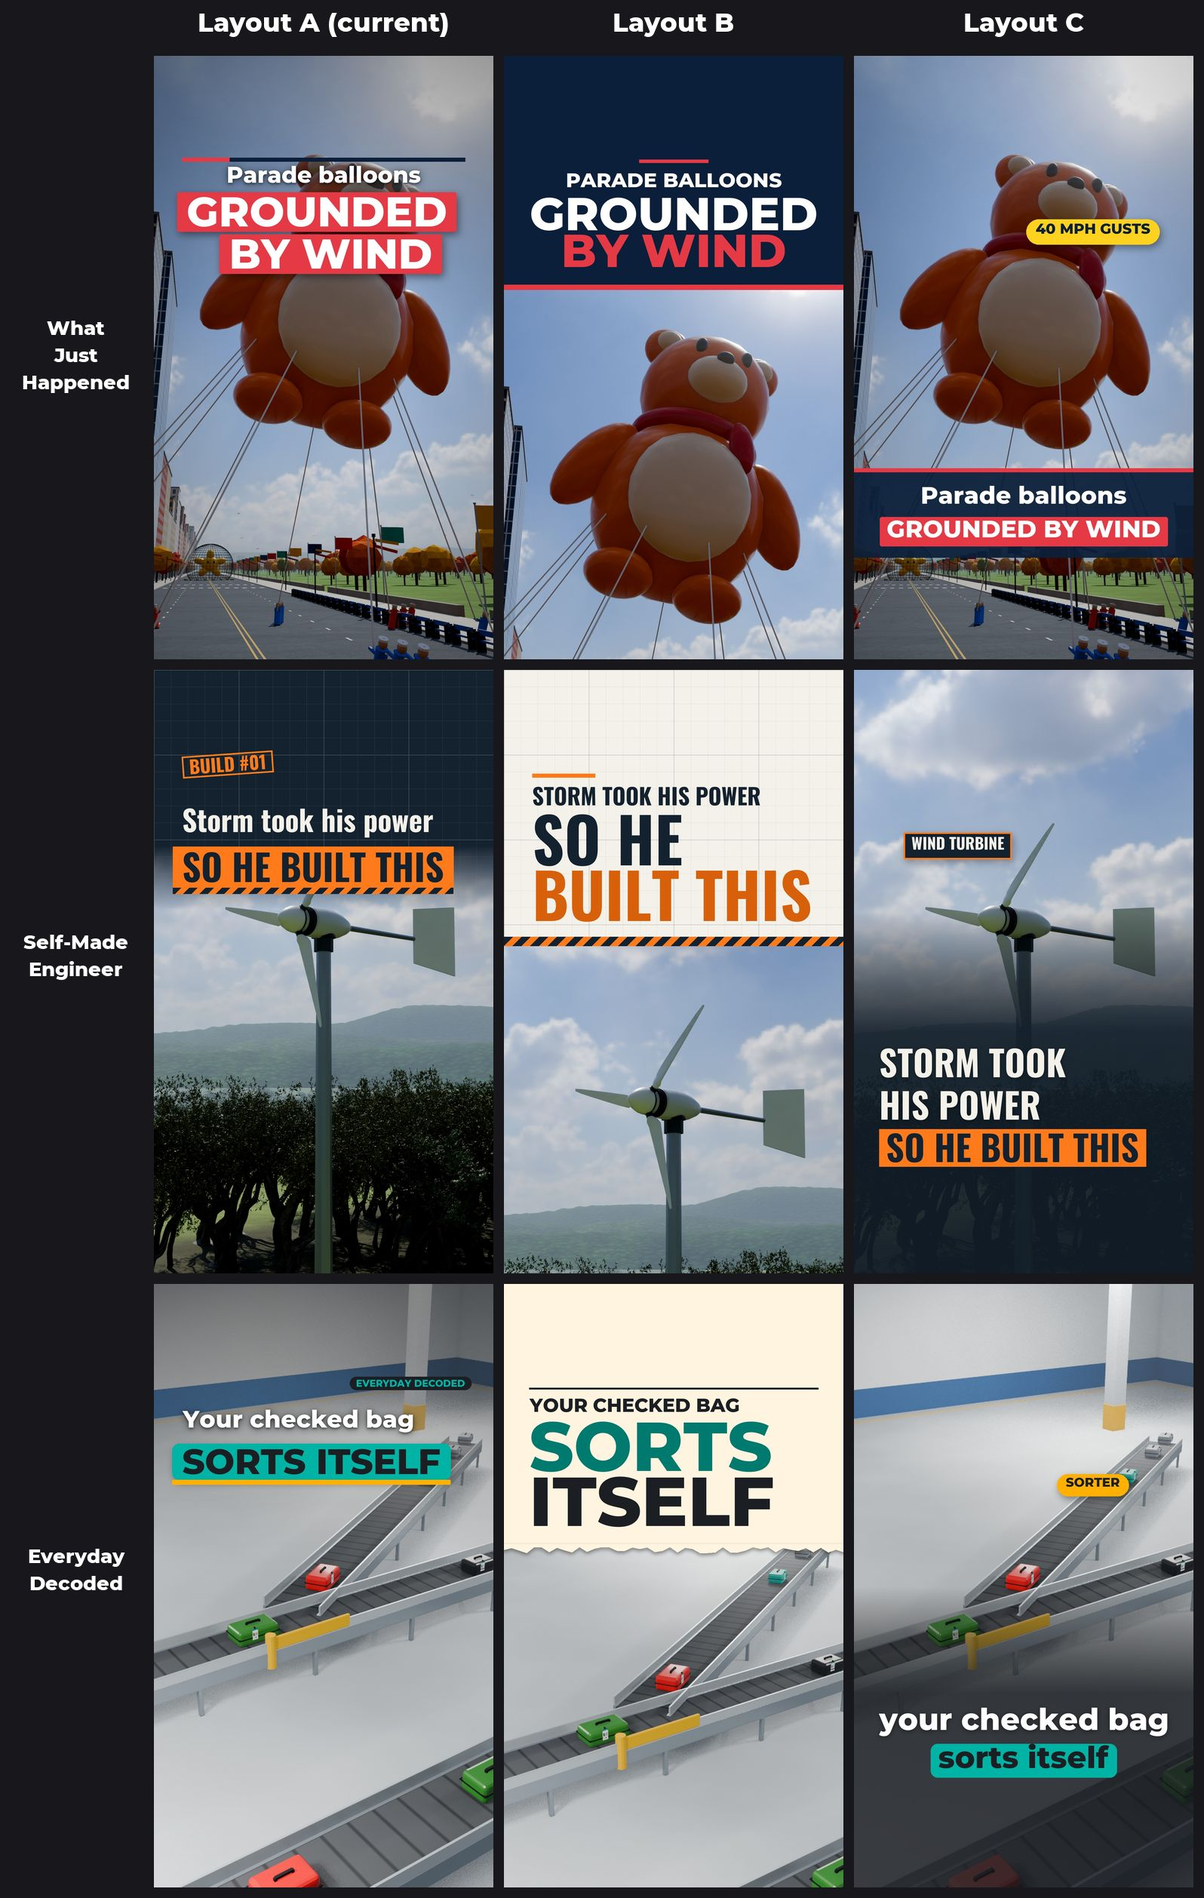
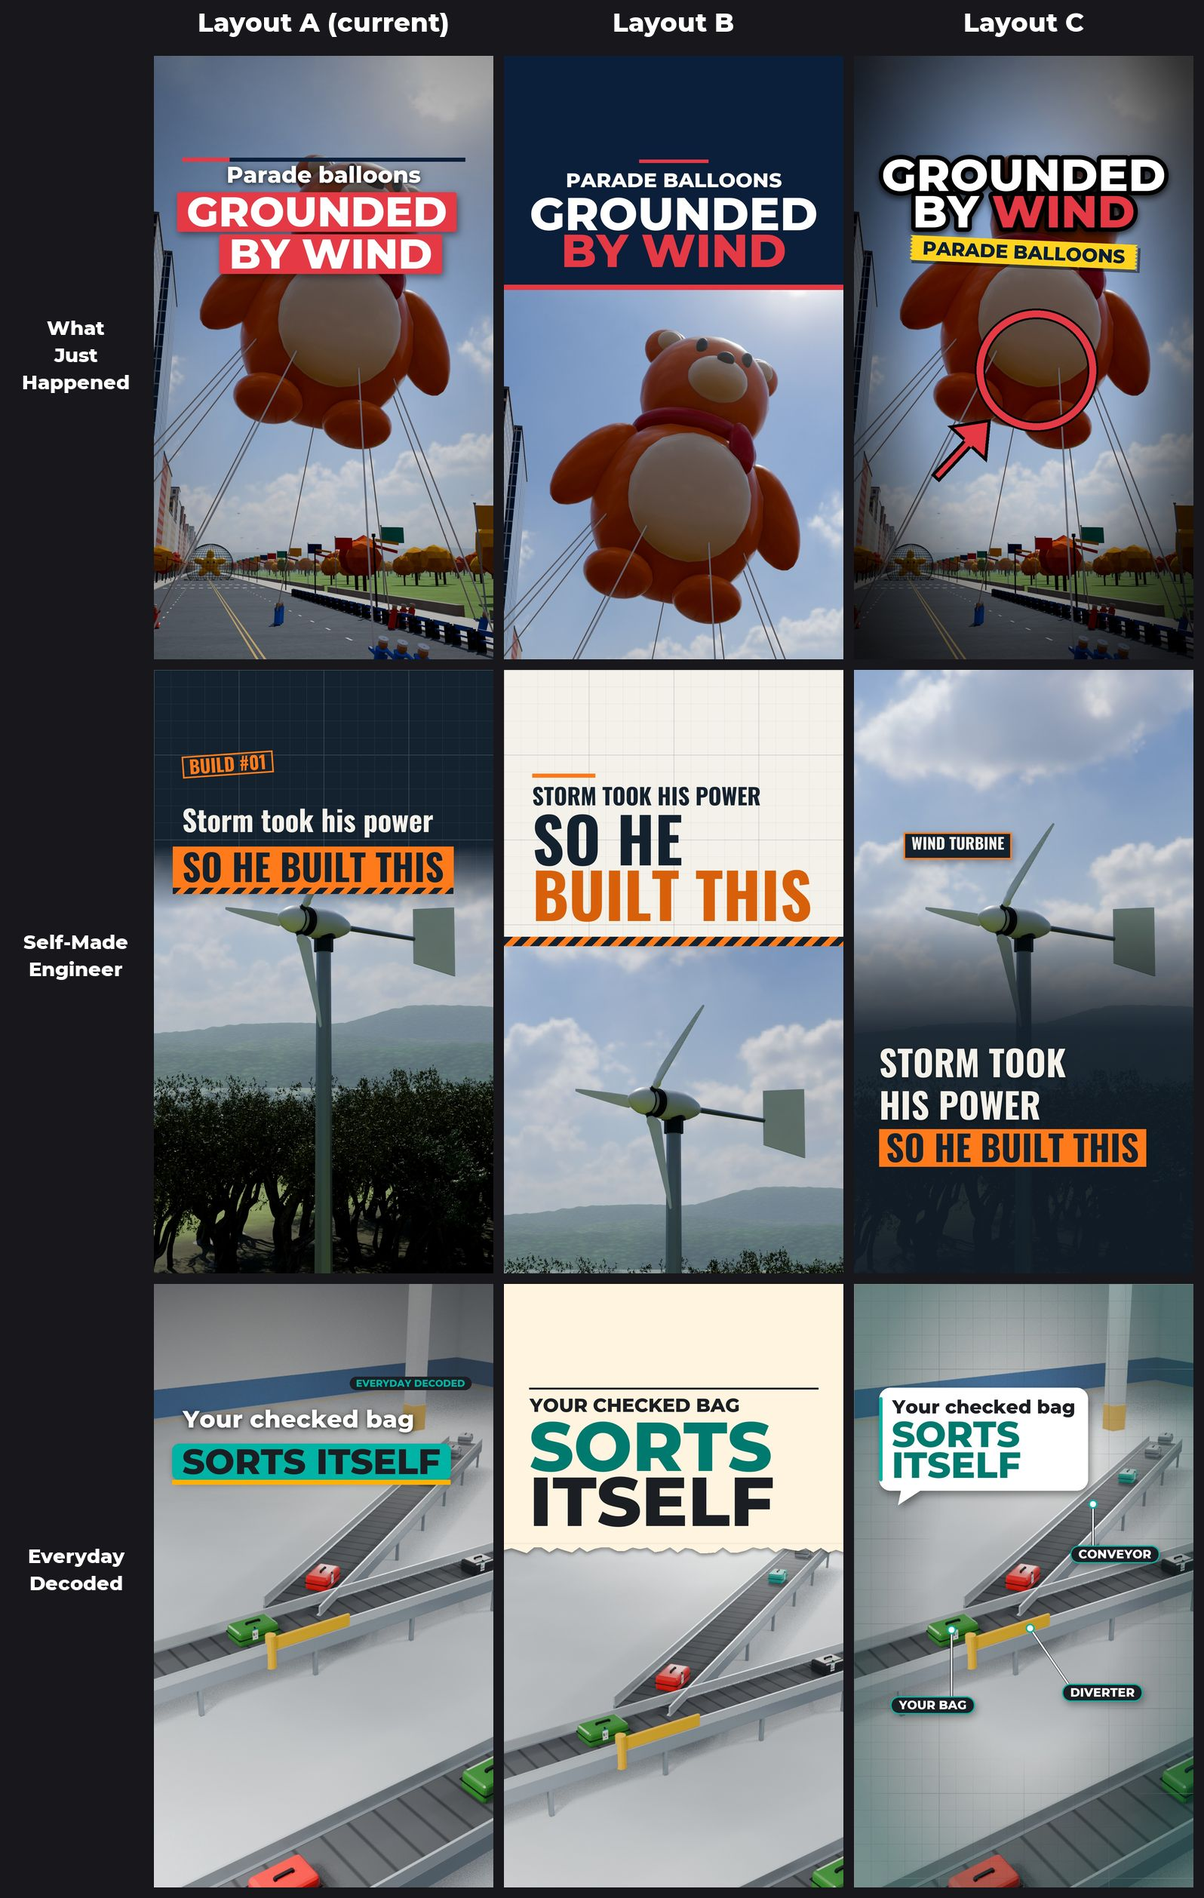
Thumbnails: new layout C for WJH (news punch) and ED (labelled diagram)
WJH C: giant stroked headline, red key word (--key), yellow tape setup, red circle + arrow, darkened edges.
ED C: speech-bubble hook card, blueprint-grid edge tint, --callout lines to small labels.
SME C and all layout A output unchanged (verified byte-identical).

Changed region(s): [[0.7061, 0.651, 1.0, 1.0], [0.7061, 0.031, 1.0, 0.372]]

diff --git a/tools/make_thumbnail.py b/tools/make_thumbnail.py
@@ -25,9 +25,13 @@ Layouts (preset key "layout"; rotate A->B->C per Page, never the same layout twi
   A (default)  full-bleed hero + two-tier hook on top (setup line + payoff box). Absent key = A, byte-identical.
   B "poster"   flat paper header, thin rule, small kicker (--setup), HUGE stacked payoff words in alternating
                colours, hero frame in a window below (edge: line | hazard | torn). --micro under the words.
-  C "caption"  full-bleed hero, the hook as ONE caption near the bottom of the safe zone (setup plain, payoff on a
-               single highlight box, never split), over a gradient or solid lower-third band; --micro above it;
-               pair with --sticker as a small label on the object.
+  C            caption.variant picks the concept:
+               "caption" (default, sme_c) the hook as ONE caption near the bottom of the safe zone (setup plain, payoff
+                 on a single highlight box, never split) over a gradient / solid band; --micro above; --sticker label.
+               "punch" (wjh_c) giant stroked headline (= --payoff), key word (--key, default last) in the accent colour,
+                 setup on a tilted yellow tape strip, edge-darkened hero; pair with --circle / --arrow.
+               "diagram" (ed_c) speech-bubble hook card top-left, blueprint-grid tint on the image edges, and
+                 --callout "x,y:LABEL[@lx,ly]" (repeatable) lines with dots to small rounded labels.
   --sticker / --badge / --arrow / --circle work the same in every layout.
 
 Preset JSON schema (tools/thumb_styles/<name>.json; every key optional, defaults below in DEFAULT).
@@ -39,7 +43,12 @@ Every key marked (opt-in) is off by default, so presets that don't use it render
                          colours, cycled], "gap" (30), "micro_size", "micro_color", "window_gap" (44), "window_max_top"
                          (1200), "edge" {"type": line|hazard|torn, "color", "height", "colors", "stripe", "depth", "step"}}
                          Payoff lines: "|" splits, else 1 word per line (short words join the next), pairs for 4+.
-  caption               (layout C) {"font" (= payoff font), "size" (104, auto-shrinks), "max_lines" (3), "setup_case",
+  caption               (layout C) {"variant": caption|punch|diagram; punch keys: "size", "stroke", "leading",
+                         "color", "key_color", "stroke_color", "edge_dark", "tape" {size, case, color, text, pad,
+                         rotate}, "tape_gap"; diagram keys: "grid" {tint, tint_alpha, color, alpha, major_alpha, step,
+                         major_every, inner, outer}, "card" {pad, max_width, radius, box, accent, setup_size/case/color,
+                         payoff_size/case/color, gap, tail}, "callout" {size, line, line_shadow, width, dot_r, dot_ring,
+                         box, text, border, border_w, pad, shadow}; caption keys: "font" (= payoff font), "size" (104, auto-shrinks), "max_lines" (3), "setup_case",
                          "payoff_case" (asis|upper|lower|sentence), "color", "shadow", "box", "box_text", "radius",
                          "pad" [y, x], "box_gap", "line_gap", "y_bottom" (1590; --text-top sets the top instead),
                          "micro_size", "micro_color", "micro_gap",
@@ -440,6 +449,11 @@ def layout_c(a, st, font_path, pfont_path):
     (setup words plain, payoff words on a single highlight box), over a dark gradient or a solid lower-third band.
     Pair with --sticker (+ --sticker-label) as a small rounded label on the object."""
     c = st.get("caption", {})
+    variant = c.get("variant", "caption")
+    if variant == "punch":
+        return layout_punch(a, st, font_path, pfont_path)
+    if variant == "diagram":
+        return layout_diagram(a, st, font_path, pfont_path)
     mx = st["margin_x"]
     col_w = W - 2 * mx
     center = st.get("align", "center") == "center"
@@ -545,6 +559,192 @@ def layout_c(a, st, font_path, pfont_path):
         cap_box_text(img, P, (W - w) / 2 if center else mx, my, a.micro, mf, c.get("micro_color", "#FFFFFF"))
     return img, P, [" ".join(w for w, _ in ln) for ln in lines]
 
+def edge_mask(strength, inner=0.45, outer=0.95):
+    """L mask: 0 in the centre, rising to `strength` towards the frame edges (elliptical)."""
+    m = Image.new("L", (W // 8, H // 8))
+    px = m.load()
+    for y in range(m.height):
+        for x in range(m.width):
+            d = math.hypot((x - m.width / 2) / (m.width / 2), (y - m.height / 2) / (m.height / 2)) / math.sqrt(2)
+            px[x, y] = int(255 * strength * min(1.0, max(0.0, (d - inner) / (outer - inner))))
+    return m.resize((W, H), Image.BICUBIC).filter(ImageFilter.GaussianBlur(16))
+
+
+def layout_punch(a, st, font_path, pfont_path):
+    """Layout C, variant 'punch' (news): darkened-edge hero, ONE giant white headline (= --payoff) with a heavy black
+    stroke in the upper third, one key word (--key, default last word) in the accent colour, the setup on a slightly
+    rotated yellow tape strip under it; use --circle / --arrow to point at the key object."""
+    c = st["caption"]
+    mx = st["margin_x"]
+    col_w = W - 2 * mx
+    img = hero_plate(a.hero, a.zoom, [float(v) for v in a.focus.split(",")], st["grade"], 0).convert("RGBA")
+    if c.get("edge_dark"):
+        img.alpha_composite(Image.composite(Image.new("RGBA", (W, H), (0, 0, 0, 255)),
+                                            Image.new("RGBA", (W, H), (0, 0, 0, 0)), edge_mask(c["edge_dark"])))
+    P = Painter(img)
+    words = a.payoff.replace("|", " ").upper().split()
+    key = (a.key or words[-1]).upper()
+    plines = stack_lines(a.payoff.upper())
+    sw_ = c.get("stroke", 14)
+    size = c.get("size", 210)
+    while True:
+        f = ImageFont.truetype(pfont_path, size)
+        if max(f.getlength(ln) for ln in plines) + 2 * sw_ <= col_w or size <= 80:
+            break
+        size -= 6
+    cap = ink_size(f, "H")[1]
+    y = a.text_top if a.text_top is not None else st["text_top"]
+    lead = int(cap * c.get("leading", 0.18))
+    for ln in plines:
+        lw = f.getlength(ln)
+        x = (W - lw) / 2
+        sh = Image.new("RGBA", (W, H), (0, 0, 0, 0))
+        hb = f.getbbox("H")
+        ImageDraw.Draw(sh).text((x, y - hb[1] + 10), ln, font=f, fill=(0, 0, 0, 170), stroke_width=sw_,
+                                stroke_fill=(0, 0, 0, 170))
+        img.alpha_composite(sh.filter(ImageFilter.GaussianBlur(10)))
+        d = ImageDraw.Draw(img)
+        for i, wd in enumerate(ln.split()):
+            col = c.get("key_color", "#E63946") if wd.strip("?!.,") == key.strip("?!.,") else c.get("color", "#FFFFFF")
+            d.text((x, y - hb[1]), wd, font=f, fill=rgb(col) + (255,), stroke_width=sw_,
+                   stroke_fill=rgb(c.get("stroke_color", "#000000")) + (255,))
+            x += f.getlength(wd + " ")
+        P.boxes.append(((W - lw) / 2 - sw_, y - sw_, (W + lw) / 2 + sw_, y + cap + sw_))
+        y += cap + lead
+    # tape strip with the setup
+    t = c.get("tape", {})
+    tf = ImageFont.truetype(font_path, t.get("size", 60))
+    ttxt = case(a.setup, t.get("case", "upper"))
+    while ink_size(tf, ttxt)[0] + 2 * t.get("pad", [18, 40])[1] > col_w and tf.size > 36:
+        tf = ImageFont.truetype(font_path, tf.size - 2)
+    tw, _ = ink_size(tf, ttxt)
+    tcap = ink_size(tf, "H")[1]
+    py_, px_ = t.get("pad", [18, 40])
+    ty = y - lead + c.get("tape_gap", 34)
+    layer = Image.new("RGBA", (W, H), (0, 0, 0, 0))
+    box = ((W - tw) / 2 - px_, ty, (W + tw) / 2 + px_, ty + tcap + 2 * py_)
+    ld = ImageDraw.Draw(layer)
+    ld.rectangle((box[0] + 8, box[1] + 10, box[2] + 8, box[3] + 10), fill=(0, 0, 0, 120))
+    ld.rectangle(box, fill=rgb(t.get("color", "#FFD21F")) + (255,))
+    for xx in (box[0], box[2]):   # ragged tape ends
+        for k in range(int(box[1]), int(box[3]), 12):
+            ld.polygon([(xx, k), (xx + (8 if xx == box[0] else -8), k + 6), (xx, k + 12)], fill=(0, 0, 0, 0))
+    cap_box_text(layer, Painter(layer), (W - tw) / 2, ty + py_, ttxt, tf, t.get("text", "#0B1F3A"), key=False)
+    layer = layer.rotate(t.get("rotate", -2.5), resample=Image.BICUBIC,
+                         center=((box[0] + box[2]) / 2, (box[1] + box[3]) / 2))
+    img.alpha_composite(layer)
+    P.boxes.append(layer.getchannel("A").point(lambda v: 255 if v > 200 else 0).getbbox())
+    if a.micro:
+        mf = ImageFont.truetype(font_path, c.get("micro_size", 44))
+        w, _ = ink_size(mf, a.micro)
+        my = P.boxes[-1][3] + c.get("micro_gap", 26)
+        bb = mf.getbbox(a.micro)
+        ImageDraw.Draw(img).text(((W - w) / 2 - bb[0], my - mf.getbbox("H")[1]), a.micro, font=mf,
+                                 fill=rgb(c.get("micro_color", "#FFFFFF")) + (255,), stroke_width=5,
+                                 stroke_fill=(0, 0, 0, 255))
+        P.boxes.append(((W - w) / 2, my, (W + w) / 2, my + ink_size(mf, "H")[1]))
+    return img, P, plines
+
+
+def layout_diagram(a, st, font_path, pfont_path):
+    """Layout C, variant 'diagram' (how it works): hero with a blueprint-grid tint on its edges, the hook in a white
+    rounded speech-bubble card at the top-left (setup charcoal, payoff accent), and thin white callout lines with
+    dots from 2-3 parts of the object to small rounded labels (--callout 'x,y:LABEL[@lx,ly]', repeatable)."""
+    c = st["caption"]
+    mx = st["margin_x"]
+    img = hero_plate(a.hero, a.zoom, [float(v) for v in a.focus.split(",")], st["grade"], 0).convert("RGBA")
+    g = c.get("grid", {})
+    em = edge_mask(1.0, g.get("inner", 0.40), g.get("outer", 0.85))
+    tint = Image.new("RGBA", (W, H), rgb(g.get("tint", "#00796E")) + (255,))
+    img.alpha_composite(Image.composite(tint, Image.new("RGBA", (W, H), (0, 0, 0, 0)),
+                                        em.point(lambda v: int(v * g.get("tint_alpha", 0.35)))))
+    lines = Image.new("L", (W, H), 0)
+    ld = ImageDraw.Draw(lines)
+    step, every = g.get("step", 54), g.get("major_every", 5)
+    for i, v in enumerate(range(0, H, step)):
+        al = int(255 * (g.get("major_alpha", 0.45) if every and i % every == 0 else g.get("alpha", 0.25)))
+        ld.line((0, v, W, v), fill=al, width=2 if i % every == 0 else 1)
+        if v < W:
+            ld.line((v, 0, v, H), fill=al, width=2 if i % every == 0 else 1)
+    img.alpha_composite(Image.composite(Image.new("RGBA", (W, H), rgb(g.get("color", "#FFFFFF")) + (255,)),
+                                        Image.new("RGBA", (W, H), (0, 0, 0, 0)), ImageChops.multiply(lines, em)))
+    P = Painter(img)
+    # hook card
+    k = c.get("card", {})
+    pad = k.get("pad", 40)
+    maxw = k.get("max_width", 760) - 2 * pad
+    sf = ImageFont.truetype(font_path, k.get("setup_size", 60))
+    stxt = case(a.setup, k.get("setup_case", "asis"))
+    slines = balanced(sf, stxt.split(), maxw)
+    ptxt = case(a.payoff.replace("|", " "), k.get("payoff_case", "upper"))
+    psize = k.get("payoff_size", 120)
+    while True:
+        pf = ImageFont.truetype(pfont_path, psize)
+        plines = [ln.strip() for ln in a.payoff.upper().split("|")] if "|" in a.payoff else \
+            wrap(pf, ptxt.split(), maxw)
+        if max(ink_size(pf, ln)[0] for ln in plines) <= maxw or psize <= 64:
+            break
+        psize -= 4
+    scap, pcap = ink_size(sf, "H")[1], ink_size(pf, "H")[1]
+    sgap, pgap, mid = int(scap * 0.45), int(pcap * 0.22), k.get("gap", 26)
+    inner_h = len(slines) * scap + (len(slines) - 1) * sgap + mid + len(plines) * pcap + (len(plines) - 1) * pgap
+    inner_w = max([ink_size(sf, ln)[0] for ln in slines] + [ink_size(pf, ln)[0] for ln in plines])
+    x0 = mx
+    y0 = a.text_top if a.text_top is not None else st["text_top"]
+    card = (x0, y0, x0 + inner_w + 2 * pad, y0 + inner_h + 2 * pad)
+    tail = k.get("tail", 46)
+    tail_pts = [(card[0] + 70, card[3] - 2), (card[0] + 70 + tail * 1.4, card[3] - 2), (card[0] + 60, card[3] + tail)]
+    sh = Image.new("RGBA", (W, H), (0, 0, 0, 0))
+    sd = ImageDraw.Draw(sh)
+    sd.rounded_rectangle([v + o for v, o in zip(card, (6, 12, 6, 12))], k.get("radius", 36), fill=(0, 0, 0, 110))
+    sd.polygon([(x + 6, y + 12) for x, y in tail_pts], fill=(0, 0, 0, 110))
+    img.alpha_composite(sh.filter(ImageFilter.GaussianBlur(12)))
+    d = ImageDraw.Draw(img)
+    d.rounded_rectangle(card, k.get("radius", 36), fill=rgb(k.get("box", "#FFFFFF")) + (255,))
+    d.polygon(tail_pts, fill=rgb(k.get("box", "#FFFFFF")) + (255,))
+    if k.get("accent"):
+        d.rounded_rectangle((card[0], card[1] + 30, card[0] + 10, card[3] - 30), 5, fill=rgb(k["accent"]) + (255,))
+    y = y0 + pad
+    for ln in slines:
+        cap_box_text(img, P, x0 + pad, y, ln, sf, k.get("setup_color", "#1B1F24"), key=False)
+        y += scap + sgap
+    y += mid - sgap
+    for ln in plines:
+        cap_box_text(img, P, x0 + pad, y, ln, pf, k.get("payoff_color", "#00796E"), key=False)
+        y += pcap + pgap
+    P.boxes.append((card[0], card[1], card[2], card[3] + tail))
+    # callouts
+    q = c.get("callout", {})
+    lf = ImageFont.truetype(font_path, q.get("size", 38))
+    lcol, lw_ = rgb(q.get("line", "#FFFFFF")), q.get("width", 4)
+    for spec in a.callout:
+        pt, _, rest = spec.partition(":")
+        label, _, at = rest.partition("@")
+        x, yy = [float(v) for v in pt.split(",")]
+        lx, ly = [float(v) for v in at.split(",")] if at else (x + (230 if x < W / 2 else -230), yy + 170)
+        tw, _ = ink_size(lf, label)
+        lcap = ink_size(lf, "H")[1]
+        bpy, bpx = q.get("pad", [14, 26])
+        box = (lx - tw / 2 - bpx, ly - lcap / 2 - bpy, lx + tw / 2 + bpx, ly + lcap / 2 + bpy)
+        ex = min(max(x, box[0] + 20), box[2] - 20)
+        ey = box[1] if yy < box[1] else box[3] if yy > box[3] else ly
+        if box[0] <= x <= box[2] and box[1] <= yy <= box[3]:
+            ex, ey = lx, ly
+        if q.get("line_shadow"):
+            ImageDraw.Draw(img).line([(x, yy), (ex, ey)], fill=rgb(q["line_shadow"]) + (150,), width=lw_ + 4)
+        d = ImageDraw.Draw(img)
+        d.line([(x, yy), (ex, ey)], fill=lcol + (255,), width=lw_)
+        r = q.get("dot_r", 13)
+        d.ellipse((x - r, yy - r, x + r, yy + r), fill=lcol + (255,), outline=rgb(q.get("dot_ring", "#00B3A4")) + (255,),
+                  width=5)
+        P.shadow_rect(box, 30, q.get("shadow", 0.35))
+        d = ImageDraw.Draw(img)
+        d.rounded_rectangle(box, int((box[3] - box[1]) / 2), fill=rgb(q.get("box", "#1B1F24")) + (255,),
+                            outline=rgb(q["border"]) + (255,) if q.get("border") else None, width=q.get("border_w", 4))
+        cap_box_text(img, P, lx - tw / 2, ly - lcap / 2, label, lf, q.get("text", "#FFFFFF"), key=False)
+        P.boxes += [box, (x - r, yy - r, x + r, yy + r)]
+    return img, P, plines
+
 
 def main():
     ap = argparse.ArgumentParser()
@@ -566,6 +766,9 @@ def main():
     ap.add_argument("--zoom", type=float, default=1.0)
     ap.add_argument("--focus", default="0.5,0.5")
     ap.add_argument("--debug-safe", action="store_true")
+    ap.add_argument("--key", help="layout C punch: the payoff word drawn in the accent colour (default: last word)")
+    ap.add_argument("--callout", action="append", default=[],
+                    help="layout C diagram, repeatable: 'x,y:LABEL' or 'x,y:LABEL@lx,ly' (label centre)")
     a = ap.parse_args()
 
     st = load_style(a.style)

diff --git a/branding/THUMBNAIL-STYLE.md b/branding/THUMBNAIL-STYLE.md
@@ -63,10 +63,18 @@ the same truth / word-count rules. Each Page keeps its own palette and fonts in 
   red bar), `sme_b` (off-white graph paper, Oswald navy/orange words, hazard-stripe edge), `ed_b` (warm cream,
   teal/charcoal words, torn-paper edge). Best with a 1–3 word payoff; the hero window shows only the lower ~40%, so
   aim `--focus` at the hero object.
-- **C, "caption":** full-bleed hero, the hook as ONE caption near the bottom of the safe zone (setup words plain,
-  payoff words on a single highlight box), plus a small rounded label sticker on the object (`--sticker`,
-  `--sticker-at`). Presets `wjh_c` (solid navy news lower-third, red box), `sme_c` (all-caps Oswald over a navy
-  gradient, orange plate, navy/orange tag), `ed_c` (lowercase caption over a charcoal gradient, teal box, amber pill).
+- **C, one concept per Page** (`--style wjh_c|sme_c|ed_c`):
+  - `wjh_c` **"news punch"**: hero darkened at the edges, ONE giant white headline (= `--payoff`, 2–4 words) with a
+    heavy black stroke in the upper third, the key word in red (`--key WORD`, default the last word), the setup on a
+    slightly tilted yellow tape strip under it, and a red circle + arrow on the key object (`--circle x,y,r`,
+    `--arrow x,y,angle`). Irfan's exception (27 Nov 2026): circles/arrows are allowed in WJH layout C only; A and B
+    still use none.
+  - `sme_c` **"caption + tag"**: one all-caps Oswald caption near the bottom (setup off-white, payoff on a square
+    orange plate) over a navy gradient, plus a navy/orange label tag on the build (`--sticker`, `--sticker-at`).
+  - `ed_c` **"labelled diagram"**: teal blueprint-grid tint on the image edges, the hook in a white rounded
+    speech-bubble card at the top-left (setup charcoal, payoff deep teal), and thin white callout lines with dots
+    from 2–3 parts of the object to small charcoal rounded labels (`--callout "x,y:LABEL"` or
+    `--callout "x,y:LABEL@lx,ly"`, repeatable). Labels must name real parts shown in the reel.
 - **Rotation rule:** rotate **A → B → C** per Page, in posting order, and **never use the same layout twice in a row**
   on a Page. Check the Page's previous cover before choosing.
 - Samples (real hero frames): `branding/thumb_variants/` and the contact sheet `branding/thumb_variants/ALL.jpg`.

diff --git a/pipeline/README.md b/pipeline/README.md
@@ -52,7 +52,7 @@ Steps (`--steps`, default `tts,captions,textures,render,assemble,fb,post,qc`):
    - **Thumbnail (Irfan, 25 Nov 2026, all Pages):** every reel ships a custom cover `<name> thumb.jpg` (1080×1920,
      key content inside the centre 1080×1350) made with `tools/make_thumbnail.py` from a dramatic hero frame of the
      episode's own scene + a two-tier hook (setup line + 1–3 word ALL-CAPS payoff box, ≤8 words, TRUE to the script; see `branding/THUMBNAIL-STYLE.md`),
-     per-Page preset `--style wjh|sme|ed` (each Page looks different), no small text/logos. **Layouts (27 Nov 2026):** each Page has 3 cover layouts: A = hook on top (`wjh`/`sme`/`ed`), B = text-only poster header with huge stacked words over a hero window (`wjh_b`/`sme_b`/`ed_b`), C = one caption line with a highlight box near the bottom + a small label sticker on the object (`wjh_c`/`sme_c`/`ed_c`). **Rotate A→B→C per Page, never the same layout twice in a row** (samples: `branding/thumb_variants/ALL.jpg`). 2 variants; the Fable QC picks the stronger. **MUST FIX** if the text is
+     per-Page preset `--style wjh|sme|ed` (each Page looks different), no small text/logos. **Layouts (27 Nov 2026):** each Page has 3 cover layouts: A = hook on top (`wjh`/`sme`/`ed`), B = text-only poster header with huge stacked words over a hero window (`wjh_b`/`sme_b`/`ed_b`), C = one concept per Page: `wjh_c` news punch (giant stroked headline, red key word `--key`, yellow tape setup, red `--circle` + `--arrow`), `sme_c` caption + label tag, `ed_c` labelled diagram (speech-bubble hook card + `--callout "x,y:LABEL"` lines to 2–3 parts). **Rotate A→B→C per Page, never the same layout twice in a row** (samples: `branding/thumb_variants/ALL.jpg`). 2 variants; the Fable QC picks the stronger. **MUST FIX** if the text is
      unreadable (at phone-grid size) or false/misleading. `fb_schedule_reel.py` uploads it automatically.
    - **SKIP (log one line, no repair):** minor visual artifacts under ~1 s; whisper mishearings when the audio is
      fine; pauses 0.75–1.2 s; small cosmetic imperfections and optional upgrades. Never spend a re-render or another
